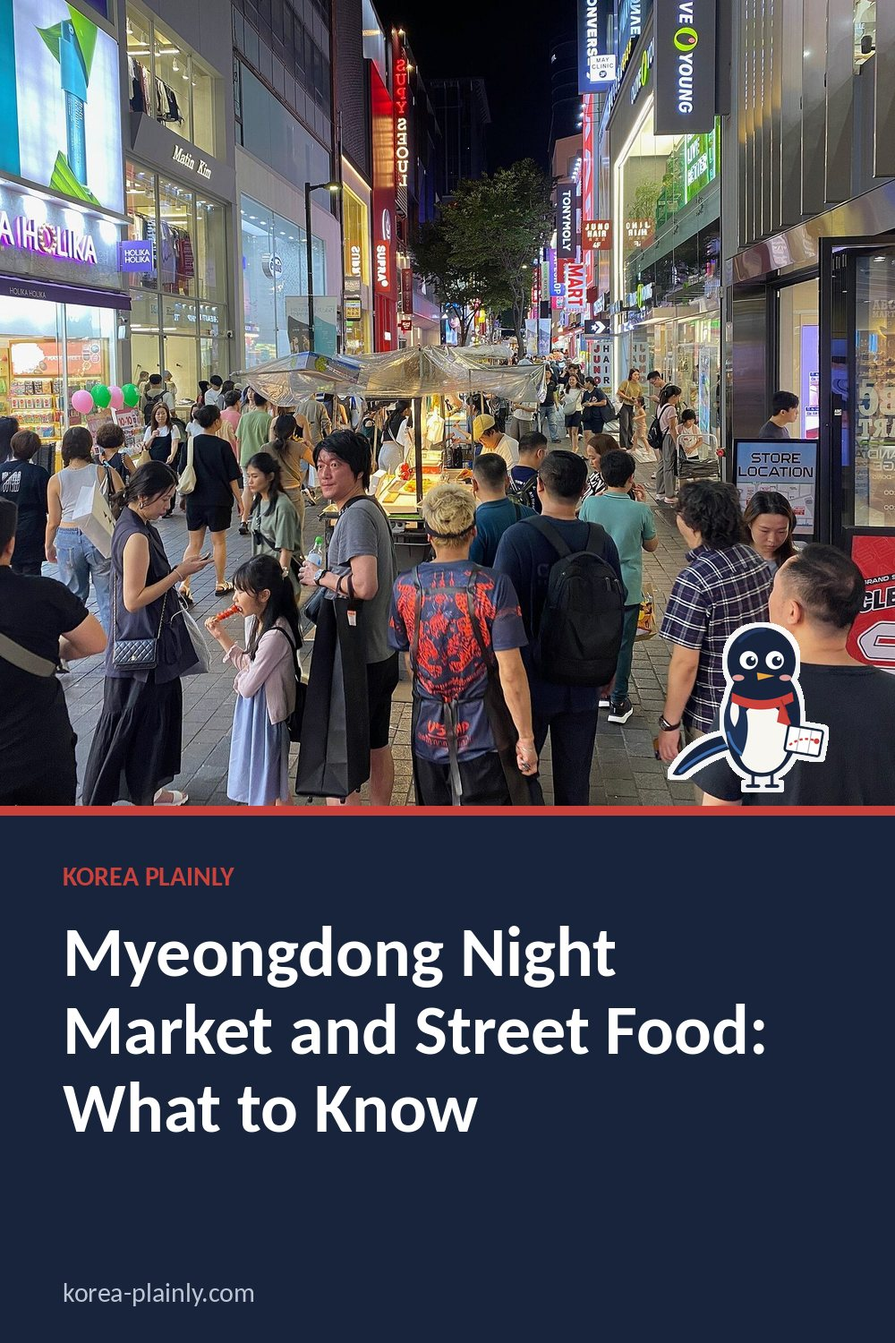
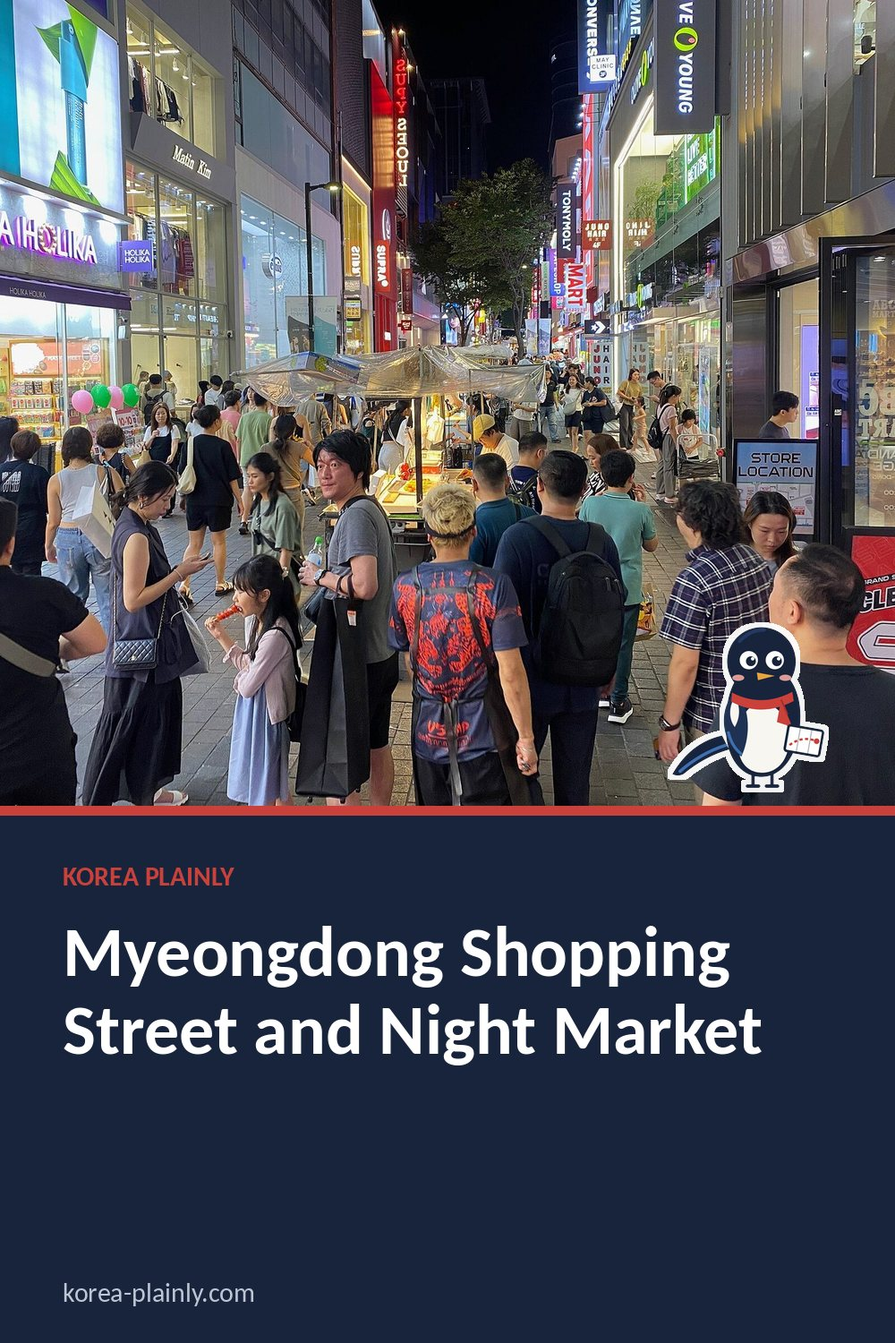
Myeongdong guide: retitle for 'Myeongdong shopping street', new shopping section (K-beauty, tax-free, exchange booths, department stores), specific bottom line, FAQ; halal fried chicken guide: fix romanisations, link halal food guide, retry cover photo; topics: add jjimjilbang (keyword gap) as next-
Claude-Session: https://claude.ai/code/session_01MMQnqJRo8hXZVj3LMVpuUp

Changed region(s): [[0.062, 0.6747, 0.868, 0.8587]]

diff --git a/myeongdong-night-market.html b/myeongdong-night-market.html
@@ -11,11 +11,11 @@
 >
 
 <link rel="stylesheet" href="style.css?v=20261015-1">
-<title>Myeongdong Night Market and Street Food: What to Know</title>
+<title>Myeongdong Shopping Street and Night Market: Street Food, K-Beauty and Tips</title>
 
 <meta
   name="description"
-  content="A practical guide to finding Myeongdong’s evening food stalls, choosing Korean street snacks, paying, and getting around."
+  content="Myeongdong shopping street and night market: where the food stalls are, what to eat, K-beauty shops, tax-free buying and paying."
 >
 <link
   rel="canonical"
@@ -29,12 +29,12 @@
 
 <meta
   property="og:title"
-  content="Myeongdong Night Market and Street Food: What to Know"
+  content="Myeongdong Shopping Street and Night Market: Street Food, K-Beauty and Tips"
 >
 
 <meta
   property="og:description"
-  content="A practical guide to finding Myeongdong’s evening food stalls, choosing Korean street snacks, paying, and getting around."
+  content="Myeongdong shopping street and night market: where the food stalls are, what to eat, K-beauty shops, tax-free buying and paying."
 >
 
 <meta
@@ -59,12 +59,12 @@
 
 <meta
   name="twitter:title"
-  content="Myeongdong Night Market and Street Food: What to Know"
+  content="Myeongdong Shopping Street and Night Market: Street Food, K-Beauty and Tips"
 >
 
 <meta
   name="twitter:description"
-  content="A practical guide to finding Myeongdong’s evening food stalls, choosing Korean street snacks, paying, and getting around."
+  content="Myeongdong shopping street and night market: where the food stalls are, what to eat, K-beauty shops, tax-free buying and paying."
 >
 
 <meta
@@ -244,12 +244,12 @@ footer {
 <script async src="https://www.googletagmanager.com/gtag/js?id=G-F508WWT8G9"></script><script>window.dataLayer=window.dataLayer||[];function gtag(){dataLayer.push(arguments);}gtag('js',new Date());gtag('config','G-F508WWT8G9');</script>
 <script async src="https://pagead2.googlesyndication.com/pagead/js/adsbygoogle.js?client=ca-pub-7379462117232471" crossorigin="anonymous"></script>
 <style>.kp-date{font-size:13px;color:#62635f;margin:-6px 0 22px}</style>
-<script type="application/ld+json" id="kp-faq-ld">{"@context": "https://schema.org", "@type": "FAQPage", "mainEntity": [{"@type": "Question", "name": "When is the best time to visit Myeongdong’s street-food stalls?", "acceptedAnswer": {"@type": "Answer", "text": "Myeongdong’s street-food stalls are generally associated with the evening, but activity and selection can vary by day, weather, and vendor. If you have a particular snack in mind, don’t rely on a precise schedule. Check the area when you arrive, and keep a nearby meal option in mind."}}, {"@type": "Question", "name": "Should I bring cash for street food?", "acceptedAnswer": {"@type": "Answer", "text": "Payment methods vary from stall to stall. Carry some Korean won in cash, and ask before ordering whether a vendor accepts your card or another payment method. Don’t assume every stall takes cards, and check the amount and payment method before your food is prepared."}}, {"@type": "Question", "name": "Can I find food that suits my dietary needs or allergies?", "acceptedAnswer": {"@type": "Answer", "text": "Options and ingredients vary, so ask the vendor about the food before ordering. If you have an allergy, explain it clearly and ask about ingredients and possible contact with other foods. A translated note can help, but if you’re unsure about an answer, choose something else."}}]}</script>
 <link rel="stylesheet" href="article.css?v=4">
 <link rel="stylesheet" href="https://fonts.googleapis.com/css2?family=DM+Sans:wght@400;500;600;700&family=Playfair+Display:ital,wght@0,600;1,600&display=swap">
 <link rel="icon" href="/favicon.svg" type="image/svg+xml">
-<script type="application/ld+json" id="kp-article-ld">{"@context": "https://schema.org", "@type": "Article", "headline": "Myeongdong Night Market and Street Food: What to Know", "description": "A practical guide to finding Myeongdong’s evening food stalls, choosing Korean street snacks, paying, and getting around.", "image": ["https://korea-plainly.com/photo-myeongdong-night-market.jpg"], "datePublished": "2026-10-23", "dateModified": "2026-10-23", "author": {"@type": "Person", "name": "Jungsuk Kim", "url": "https://korea-plainly.com/about.html#author"}, "publisher": {"@type": "Organization", "name": "Korea Plainly", "url": "https://korea-plainly.com/"}, "mainEntityOfPage": "https://korea-plainly.com/myeongdong-night-market.html"}</script>
-<script type="application/ld+json" id="kp-breadcrumb-ld">{"@context": "https://schema.org", "@type": "BreadcrumbList", "itemListElement": [{"@type": "ListItem", "position": 1, "name": "Home", "item": "https://korea-plainly.com/"}, {"@type": "ListItem", "position": 2, "name": "Guides", "item": "https://korea-plainly.com/guides.html"}, {"@type": "ListItem", "position": 3, "name": "Food & Dining", "item": "https://korea-plainly.com/guides.html?category=food"}, {"@type": "ListItem", "position": 4, "name": "Myeongdong Night Market and Street Food: What to Know", "item": "https://korea-plainly.com/myeongdong-night-market.html"}]}</script>
+<script type="application/ld+json" id="kp-faq-ld">{"@context": "https://schema.org", "@type": "FAQPage", "mainEntity": [{"@type": "Question", "name": "When is the best time to visit Myeongdong’s street-food stalls?", "acceptedAnswer": {"@type": "Answer", "text": "Myeongdong’s street-food stalls are generally associated with the evening, but activity and selection can vary by day, weather, and vendor. If you have a particular snack in mind, don’t rely on a precise schedule. Check the area when you arrive, and keep a nearby meal option in mind."}}, {"@type": "Question", "name": "Should I bring cash for street food?", "acceptedAnswer": {"@type": "Answer", "text": "Payment methods vary from stall to stall. Carry some Korean won in cash, and ask before ordering whether a vendor accepts your card or another payment method. Don’t assume every stall takes cards, and check the amount and payment method before your food is prepared."}}, {"@type": "Question", "name": "Is Myeongdong shopping street worth visiting if I only want K-beauty?", "acceptedAnswer": {"@type": "Answer", "text": "Yes. It has one of the densest mixes of Korean skincare brand shops and multi-brand stores in Seoul, all within a short walk, and many shops offer tax-free prices to visitors with a passport. Compare offers between shops, as the same product can be discounted in one and full price in another."}}, {"@type": "Question", "name": "Can I find food that suits my dietary needs or allergies?", "acceptedAnswer": {"@type": "Answer", "text": "Options and ingredients vary, so ask the vendor about the food before ordering. If you have an allergy, explain it clearly and ask about ingredients and possible contact with other foods. A translated note can help, but if you’re unsure about an answer, choose something else."}}]}</script>
+<script type="application/ld+json" id="kp-article-ld">{"@context": "https://schema.org", "@type": "Article", "headline": "Myeongdong Shopping Street and Night Market: Street Food, K-Beauty and Tips", "description": "Myeongdong shopping street and night market: where the food stalls are, what to eat, K-beauty shops, tax-free buying and paying.", "image": ["https://korea-plainly.com/photo-myeongdong-night-market.jpg"], "datePublished": "2026-10-23", "dateModified": "2026-11-15", "author": {"@type": "Person", "name": "Jungsuk Kim", "url": "https://korea-plainly.com/about.html#author"}, "publisher": {"@type": "Organization", "name": "Korea Plainly", "url": "https://korea-plainly.com/"}, "mainEntityOfPage": "https://korea-plainly.com/myeongdong-night-market.html"}</script>
+<script type="application/ld+json" id="kp-breadcrumb-ld">{"@context": "https://schema.org", "@type": "BreadcrumbList", "itemListElement": [{"@type": "ListItem", "position": 1, "name": "Home", "item": "https://korea-plainly.com/"}, {"@type": "ListItem", "position": 2, "name": "Guides", "item": "https://korea-plainly.com/guides.html"}, {"@type": "ListItem", "position": 3, "name": "Food & Dining", "item": "https://korea-plainly.com/guides.html?category=food"}, {"@type": "ListItem", "position": 4, "name": "Myeongdong Shopping Street and Night Market: Street Food, K-Beauty and Tips", "item": "https://korea-plainly.com/myeongdong-night-market.html"}]}</script>
 <meta property="article:published_time" content="2026-10-23">
 </head>
 
@@ -280,12 +280,12 @@ FOOD · KOREA GUIDE
 </div>
 
 <h1>
-Myeongdong Night Market and Street Food: What to Know
+Myeongdong Shopping Street and Night Market: Street Food, K-Beauty and Tips
 </h1>
-<p class="kp-date" data-kp="date">By <a href="about.html#author">Jungsuk Kim</a>, Korea Plainly · Published <time datetime="2026-10-23">23 October 2026</time></p>
+<p class="kp-date" data-kp="date">By <a href="about.html#author">Jungsuk Kim</a>, Korea Plainly · Published <time datetime="2026-10-23">23 October 2026</time> · Updated <time datetime="2026-11-15">15 November 2026</time></p>
 
 <p class="dek">
-A practical guide to finding Myeongdong’s evening food stalls, choosing Korean street snacks, paying, and getting around.
+Myeongdong shopping street and night market: where the food stalls are, what to eat, K-beauty shops, tax-free buying and paying.
 </p>
 
 <img
@@ -297,12 +297,22 @@ A practical guide to finding Myeongdong’s evening food stalls, choosing Korean
 
 <article>
 
-<p>Myeongdong is one of Seoul’s easiest places to try several Korean street foods in one evening. As the shopping streets fill with people, mobile stalls set up along the pedestrian lanes and serve snacks such as tteokbokki, hotteok and grilled seafood. It is lively, central and convenient—but it is not a single, officially managed market with one entrance or fixed menu. Stall locations, choices and prices can change.</p>
+<p>Myeongdong is one of Seoul’s easiest places to try several Korean street foods in one evening. As the shopping streets fill with people, mobile stalls set up along the pedestrian lanes and serve snacks such as tteokbokki, hotteok and grilled seafood. By day the same lanes are Seoul’s best-known shopping street for K-beauty, so one visit can cover both. It is lively, central and convenient—but the night market is not a single, officially managed market with one entrance or fixed menu. Stall locations, choices and prices can change.</p>
 
-<nav class="kp-toc" data-kp="toc" aria-label="On this page"><p>On this page</p><ol><li><a href="#where-the-night-market-is">Where the night market is</a></li><li><a href="#what-to-eat-first">What to eat first</a></li><li><a href="#prices-and-paying">Prices and paying</a></li><li><a href="#how-to-order-and-eat-comfortably">How to order and eat comfortably</a></li><li><a href="#timing-weather-and-what-to-bring">Timing, weather and what to bring</a></li><li><a href="#make-it-part-of-a-seoul-evening">Make it part of a Seoul evening</a></li><li><a href="#frequently-asked-questions">Frequently Asked Questions</a></li></ol></nav>
+<nav class="kp-toc" data-kp="toc" aria-label="On this page"><p>On this page</p><ol><li><a href="#where-the-night-market-is">Where the night market is</a></li><li><a href="#shopping-on-myeongdong-street">Shopping on Myeongdong’s main street</a></li><li><a href="#what-to-eat-first">What to eat first</a></li><li><a href="#prices-and-paying">Prices and paying</a></li><li><a href="#how-to-order-and-eat-comfortably">How to order and eat comfortably</a></li><li><a href="#timing-weather-and-what-to-bring">Timing, weather and what to bring</a></li><li><a href="#make-it-part-of-a-seoul-evening">Make it part of a Seoul evening</a></li><li><a href="#frequently-asked-questions">Frequently Asked Questions</a></li></ol></nav>
 <h2 id="where-the-night-market-is">Where the night market is</h2>
 <p>Look around the main shopping streets between Myeongdong Station and Myeongdong Cathedral, including the busy lanes near the large cosmetics shops. The stalls are outdoors, so the experience depends on the weather and the season. They usually become part of the evening scene rather than operating like a daytime food hall. If you arrive and see few carts, walk the nearby shopping lanes before deciding the market is quiet.</p>
 <p>For the simplest route, take Seoul Subway Line 4 to Myeongdong Station and head out around Exit 6 toward the shopping streets. Line 2’s Euljiro 1-ga Station is another option; from there, walk toward Myeongdong’s central shopping area. The streets are crowded at busy times, so allow extra time if you are meeting someone. Naver Map and KakaoMap are useful for walking directions; search “Myeongdong Street” or “Myeongdong Cathedral” rather than expecting a single night-market pin.</p>
+
+<h2 id="shopping-on-myeongdong-street">Shopping on Myeongdong’s main street</h2>
+<p>Myeongdong’s shopping street is really a small grid of pedestrian lanes rather than one road. Most shops sell skincare and make-up: Korean brand stores, large multi-brand shops such as <a href="olive-young-korea-guide.html">Olive Young</a>, and smaller cosmetics sellers. Clothing chains, sock and souvenir stalls, and character goods fill the gaps. Shops usually open from late morning and stay open into the evening, so you can shop first and eat when the stalls set up.</p>
+<ul>
+<li><strong>Compare before you buy.</strong> The same sheet mask or sunscreen can be on a “1+1” (buy one, get one free) offer in one shop and full price next door. Staff at the door often hand out free samples; you do not have to go in.</li>
+<li><strong>Bring your passport for tax-free shopping.</strong> Shops showing a “Tax Free” or “Tax Refund” sign can take the tax off when you spend at least ₩15,000 in one transaction. Many deduct it at the till for purchases under ₩1 million each, up to ₩5 million per trip (2026 rules). Our <a href="korea-tax-refund-guide.html">tax refund guide</a> explains the rest.</li>
+<li><strong>Change money here if you need cash.</strong> The licensed exchange booths in Myeongdong usually offer good rates for major currencies. Compare the boards outside a few booths and count your won before leaving; see <a href="korea-money-exchange.html">money exchange in Korea</a>.</li>
+<li><strong>Use the department stores at either end.</strong> Lotte Department Store’s main branch (near Euljiro 1-ga Station) and Shinsegae’s main store (near Hoehyeon Station) both have duty-free floors, clean restrooms and basement food halls for a sit-down break.</li>
+</ul>
+<p>Weekend afternoons are the most crowded. If you want a calmer look round, go on a weekday morning, then come back after dark for snacks. For other areas such as Hongdae, Gangnam and Dongdaemun, see <a href="seoul-shopping-districts.html">Seoul shopping districts</a>.</p>
 
 <h2 id="what-to-eat-first">What to eat first</h2>
 <p>Start with a few familiar favourites, then choose something that looks good at the stall. Tteokbokki (떡볶이) is chewy rice cake in a spicy, sweet-red sauce. Odeng, also called eomuk (오뎅 or 어묵), is fish cake served on a skewer, often with warm broth. Hotteok (호떡) is a griddled pancake with a sweet filling, while gyeranppang (계란빵) is a small egg bread that is easy to eat while walking.</p>
@@ -329,10 +339,7 @@ A practical guide to finding Myeongdong’s evening food stalls, choosing Korean
 Bottom line:
 </strong>
 
-A little preparation can make your
-time in Korea much easier.
-Keep this guide handy and enjoy
-exploring at your own pace.
+Shop Myeongdong’s main street in the afternoon with your passport for tax-free buys, then stay after dark for two or three small snacks, with a little cash for the stalls.
 
 </div>
 
@@ -343,6 +350,8 @@ exploring at your own pace.
 <p>Myeongdong’s street-food stalls are generally associated with the evening, but activity and selection can vary by day, weather, and vendor. If you have a particular snack in mind, don’t rely on a precise schedule. Check the area when you arrive, and keep a nearby meal option in mind.</p>
 <h3>Should I bring cash for street food?</h3>
 <p>Payment methods vary from stall to stall. Carry some Korean won in cash, and ask before ordering whether a vendor accepts your card or another payment method. Don’t assume every stall takes cards, and check the amount and payment method before your food is prepared.</p>
+<h3>Is Myeongdong shopping street worth visiting if I only want K-beauty?</h3>
+<p>Yes. It has one of the densest mixes of Korean skincare brand shops and multi-brand stores in Seoul, all within a short walk, and many shops offer tax-free prices to visitors with a passport. Compare offers between shops, as the same product can be discounted in one and full price in another.</p>
 <h3>Can I find food that suits my dietary needs or allergies?</h3>
 <p>Options and ingredients vary, so ask the vendor about the food before ordering. If you have an allergy, explain it clearly and ask about ingredients and possible contact with other foods. A translated note can help, but if you’re unsure about an answer, choose something else.</p>
 </section>

diff --git a/halal-korean-fried-chicken.html b/halal-korean-fried-chicken.html
@@ -245,12 +245,12 @@ footer {
 <script async src="https://pagead2.googlesyndication.com/pagead/js/adsbygoogle.js?client=ca-pub-7379462117232471" crossorigin="anonymous"></script>
 <style>.kp-date{font-size:13px;color:#62635f;margin:-6px 0 22px}</style>
 <script type="application/ld+json" id="kp-faq-ld">{"@context": "https://schema.org", "@type": "FAQPage", "mainEntity": [{"@type": "Question", "name": "How can I tell whether a Korean fried chicken restaurant is halal?", "acceptedAnswer": {"@type": "Answer", "text": "Do not assume that fried chicken is halal just because it contains chicken. Look for a halal certificate, and ask staff whether the chicken and ingredients in the batter, marinade, and sauce are halal. If they cannot confirm, or their answer is unclear, choose another option."}}, {"@type": "Question", "name": "Is the chicken halal if the restaurant also serves pork or alcohol?", "acceptedAnswer": {"@type": "Answer", "text": "Serving pork or alcohol does not by itself tell you how the chicken is sourced or prepared. Ask whether the chicken is halal-certified and whether it is stored and cooked separately from pork and other non-halal items. If you need strict separation, choose a place that can clearly confirm it."}}, {"@type": "Question", "name": "What should I ask before ordering Korean fried chicken?", "acceptedAnswer": {"@type": "Answer", "text": "Ask whether the chicken is halal, what is in the batter and sauce, and whether it shares a fryer or cooking equipment with non-halal food. Plain or unsauced chicken is not automatically halal. If it is difficult to explain your needs, show staff a short written question in Korean."}}]}</script>
-<script type="application/ld+json" id="kp-article-ld">{"@context": "https://schema.org", "@type": "Article", "headline": "Halal Korean Fried Chicken: What Visitors Should Know", "description": "How to find Korean-style fried chicken that meets your halal needs, what to ask about ingredients and fryers, and where to start in Seoul.", "image": ["https://korea-plainly.com/food.jpg"], "datePublished": "2026-11-15", "dateModified": "2026-11-15", "author": {"@type": "Person", "name": "Jungsuk Kim", "url": "https://korea-plainly.com/about.html#author"}, "publisher": {"@type": "Organization", "name": "Korea Plainly", "url": "https://korea-plainly.com/"}, "mainEntityOfPage": "https://korea-plainly.com/halal-korean-fried-chicken.html"}</script>
-<script type="application/ld+json" id="kp-breadcrumb-ld">{"@context": "https://schema.org", "@type": "BreadcrumbList", "itemListElement": [{"@type": "ListItem", "position": 1, "name": "Home", "item": "https://korea-plainly.com/"}, {"@type": "ListItem", "position": 2, "name": "Guides", "item": "https://korea-plainly.com/guides.html"}, {"@type": "ListItem", "position": 3, "name": "Food & Dining", "item": "https://korea-plainly.com/guides.html?category=food"}, {"@type": "ListItem", "position": 4, "name": "Halal Korean Fried Chicken: What Visitors Should Know", "item": "https://korea-plainly.com/halal-korean-fried-chicken.html"}]}</script>
-<meta property="article:published_time" content="2026-11-15">
 <link rel="stylesheet" href="article.css?v=4">
 <link rel="stylesheet" href="https://fonts.googleapis.com/css2?family=DM+Sans:wght@400;500;600;700&family=Playfair+Display:ital,wght@0,600;1,600&display=swap">
 <link rel="icon" href="/favicon.svg" type="image/svg+xml">
+<script type="application/ld+json" id="kp-article-ld">{"@context": "https://schema.org", "@type": "Article", "headline": "Halal Korean Fried Chicken: What Visitors Should Know", "description": "How to find Korean-style fried chicken that meets your halal needs, what to ask about ingredients and fryers, and where to start in Seoul.", "image": ["https://korea-plainly.com/food.jpg"], "datePublished": "2026-11-15", "dateModified": "2026-11-15", "author": {"@type": "Person", "name": "Jungsuk Kim", "url": "https://korea-plainly.com/about.html#author"}, "publisher": {"@type": "Organization", "name": "Korea Plainly", "url": "https://korea-plainly.com/"}, "mainEntityOfPage": "https://korea-plainly.com/halal-korean-fried-chicken.html"}</script>
+<script type="application/ld+json" id="kp-breadcrumb-ld">{"@context": "https://schema.org", "@type": "BreadcrumbList", "itemListElement": [{"@type": "ListItem", "position": 1, "name": "Home", "item": "https://korea-plainly.com/"}, {"@type": "ListItem", "position": 2, "name": "Guides", "item": "https://korea-plainly.com/guides.html"}, {"@type": "ListItem", "position": 3, "name": "Food & Dining", "item": "https://korea-plainly.com/guides.html?category=food"}, {"@type": "ListItem", "position": 4, "name": "Halal Korean Fried Chicken: What Visitors Should Know", "item": "https://korea-plainly.com/halal-korean-fried-chicken.html"}]}</script>
+<meta property="article:published_time" content="2026-11-15">
 </head>
 
 <body class="kp-article">
@@ -297,7 +297,7 @@ How to find Korean-style fried chicken that meets your halal needs, what to ask 
 <article>
 
 <p>Korean fried chicken is crisp, often covered in a sweet, spicy or soy-based sauce, and commonly eaten with pickled radish. But a chicken dish is not automatically halal: the meat, cooking oil, sauce and kitchen practices all matter. In Korea, many familiar chicken franchises do not make a clear halal claim, so check before ordering rather than relying on the word “chicken.”</p><nav class="kp-toc" data-kp="toc" aria-label="On this page"><p>On this page</p><ol><li><a href="#start-with-a-halal-focused-restaurant">Start with a halal-focused restaurant</a></li><li><a href="#know-what-to-ask-about">Know what to ask about</a></li><li><a href="#useful-korean-words-for-ordering">Useful Korean words for ordering</a></li><li><a href="#be-careful-with-familiar-chicken-chains">Be careful with familiar chicken chains</a></li><li><a href="#ordering-delivery-or-finding-a-nearby-option">Ordering delivery or finding a nearby option</a></li><li><a href="#a-simple-plan-for-your-meal">A simple plan for your meal</a></li><li><a href="#frequently-asked-questions">Frequently Asked Questions</a></li></ol></nav>
-<h2 id="start-with-a-halal-focused-restaurant">Start with a halal-focused restaurant</h2><p>In Seoul, Itaewon is the easiest place to begin. Seoul Central Mosque is in the Hannam-dong area, uphill from Itaewon Station on Subway Line 6, and the nearby streets have restaurants serving Muslim visitors. EID Halal Korean Food and Makan Halal Korean Restaurant are known as halal-focused Korean dining options in this area. Ask whether Korean-style fried chicken is currently on the menu; a restaurant’s menu can change, and not every halal Korean restaurant serves this particular dish.</p><p>The Korea Tourism Organization’s official Visit Korea website has a Muslim-friendly restaurant listing. It uses categories that can distinguish halal-certified places from restaurants with other Muslim-friendly features. Read the category carefully: “Muslim-friendly” does not necessarily mean every dish, ingredient or kitchen practice has been certified halal.</p><h2 id="know-what-to-ask-about">Know what to ask about</h2><p>Halal suitability depends on more than the chicken. Ask whether the chicken is halal-certified, whether it is fried in oil shared with pork or other non-halal foods, and whether the sauce contains alcohol or non-halal ingredients. Some Korean sauces and marinades may use cooking wine or other ingredients that matter to observant diners. A plain-looking dish is not proof that it meets your requirements.</p><p>If certification is important to you, ask which organisation certified the restaurant or its chicken supplier, and whether that certification applies to the branch you are visiting. A sign, online listing or staff member’s assurance can be useful, but the level of assurance you need is a personal choice. If you are unsure, choose a restaurant that can answer your questions clearly.</p><h2 id="useful-korean-words-for-ordering">Useful Korean words for ordering</h2><p>Showing a short question on your phone can help, especially in a busy chicken restaurant. These phrases make the main concerns clear:</p><ul><li><strong>이 치킨은 할랄인가요?</strong> (I chikin-eun hallal-ingayo?) — Is this chicken halal?</li><li><strong>닭고기가 할랄 인증을 받았나요?</strong> (Dakgogiga hallal jeungm-eul badannayo?) — Is the chicken halal-certified?</li><li><strong>돼지고기와 같은 기름에 튀기나요?</strong> (Dwaejigogiwa gateun gireume twig-inayo?) — Is it fried in the same oil as pork?</li><li><strong>소스에 술이나 알코올이 들어가나요?</strong> (Soseue surina alkolli-ga deureoganayo?) — Does the sauce contain alcohol?</li></ul><p>For a simple order, <strong>후라이드 치킨</strong> (huraideu chikin) means plain fried chicken, while <strong>양념치킨</strong> (yangnyeom chikin) is coated in a sweet and spicy sauce. <strong>간장치킨</strong> (ganjang chikin) is soy-sauce style. These names describe flavour, not halal status. Ask about the exact sauce and preparation for each dish.</p><h2 id="be-careful-with-familiar-chicken-chains">Be careful with familiar chicken chains</h2><p>BBQ, BHC and Kyochon are widely recognised Korean chicken brands, with branches in districts such as Hongdae, Myeongdong and Gangnam. Their popularity does not mean a particular branch or menu item is halal. Do not assume the chicken is acceptable because a menu has no pork dish, or because you order plain fried chicken. Meat sourcing and shared fryers still need to be checked.</p><p>Korean chicken shops often promote <strong>치맥</strong> (chimaek), a combination of chicken and beer. Beer is not part of a halal meal, and the social setting may include alcohol even when you order soft drinks. You can simply ask for <strong>콜라</strong> (kolla, cola) or <strong>사이다</strong> (saida, a lemon-lime soda). You do not need to join the drinking custom to enjoy the food.</p><h2 id="ordering-delivery-or-finding-a-nearby-option">Ordering delivery or finding a nearby option</h2><p>Delivery apps can be awkward for visitors because menus and chat support may be mostly in Korean. Search for <strong>할랄 치킨</strong> (halal chicken) or <strong>할랄 한국 음식</strong> (halal Korean food), but treat search results as leads, not proof. A label in a listing may refer to a restaurant rather than every dish. Calling or messaging the restaurant to ask about the chicken, oil and sauce is safer than ordering from a photo alone.</p><p>For restaurants near Itaewon Station, use Naver Map or KakaoMap and search the restaurant’s name in Korean as well as English; English spellings can vary. Check current details on Naver Map or the official site, since location pins, menus and business status can change. If you are outside Itaewon, search the Visit Korea Muslim-friendly listing for your district, then contact the restaurant before travelling there for a specific chicken dish.</p><h2 id="a-simple-plan-for-your-meal">A simple plan for your meal</h2><p>Choose a halal-focused restaurant first, and confirm that it serves fried chicken that day. Ask about certified meat, shared frying oil and the sauce. If the answers are unclear, order a different dish only if the restaurant can explain its ingredients to your satisfaction, or pick another listed restaurant. This is more reliable than trying to make a last-minute choice at a busy franchise counter.</p>
+<h2 id="start-with-a-halal-focused-restaurant">Start with a halal-focused restaurant</h2><p>In Seoul, Itaewon is the easiest place to begin. Seoul Central Mosque is in the Hannam-dong area, uphill from Itaewon Station on Subway Line 6, and the nearby streets have restaurants serving Muslim visitors. EID Halal Korean Food and Makan Halal Korean Restaurant are known as halal-focused Korean dining options in this area. Ask whether Korean-style fried chicken is currently on the menu; a restaurant’s menu can change, and not every halal Korean restaurant serves this particular dish.</p><p>The Korea Tourism Organization’s official Visit Korea website has a Muslim-friendly restaurant listing. It uses categories that can distinguish halal-certified places from restaurants with other Muslim-friendly features. Read the category carefully: “Muslim-friendly” does not necessarily mean every dish, ingredient or kitchen practice has been certified halal. For halal Korean BBQ and other meals beyond chicken, see our guide to <a href="vegetarian-food-korea.html">vegetarian, vegan and halal food in Korea</a>.</p><h2 id="know-what-to-ask-about">Know what to ask about</h2><p>Halal suitability depends on more than the chicken. Ask whether the chicken is halal-certified, whether it is fried in oil shared with pork or other non-halal foods, and whether the sauce contains alcohol or non-halal ingredients. Some Korean sauces and marinades may use cooking wine or other ingredients that matter to observant diners. A plain-looking dish is not proof that it meets your requirements.</p><p>If certification is important to you, ask which organisation certified the restaurant or its chicken supplier, and whether that certification applies to the branch you are visiting. A sign, online listing or staff member’s assurance can be useful, but the level of assurance you need is a personal choice. If you are unsure, choose a restaurant that can answer your questions clearly.</p><h2 id="useful-korean-words-for-ordering">Useful Korean words for ordering</h2><p>Showing a short question on your phone can help, especially in a busy chicken restaurant. These phrases make the main concerns clear:</p><ul><li><strong>이 치킨은 할랄인가요?</strong> (I chikin-eun hallal-ingayo?) — Is this chicken halal?</li><li><strong>닭고기가 할랄 인증을 받았나요?</strong> (Dakgogiga hallal injeung-eul badanayo?) — Is the chicken halal-certified?</li><li><strong>돼지고기와 같은 기름에 튀기나요?</strong> (Dwaejigogiwa gateun gireume twiginayo?) — Is it fried in the same oil as pork?</li><li><strong>소스에 술이나 알코올이 들어가나요?</strong> (Soseue surina alkori-ga deureoganayo?) — Does the sauce contain alcohol?</li></ul><p>For a simple order, <strong>후라이드 치킨</strong> (huraideu chikin) means plain fried chicken, while <strong>양념치킨</strong> (yangnyeom chikin) is coated in a sweet and spicy sauce. <strong>간장치킨</strong> (ganjang chikin) is soy-sauce style. These names describe flavour, not halal status. Ask about the exact sauce and preparation for each dish.</p><h2 id="be-careful-with-familiar-chicken-chains">Be careful with familiar chicken chains</h2><p>BBQ, BHC and Kyochon are widely recognised Korean chicken brands, with branches in districts such as Hongdae, Myeongdong and Gangnam. Their popularity does not mean a particular branch or menu item is halal. Do not assume the chicken is acceptable because a menu has no pork dish, or because you order plain fried chicken. Meat sourcing and shared fryers still need to be checked.</p><p>Korean chicken shops often promote <strong>치맥</strong> (chimaek), a combination of chicken and beer. Beer is not part of a halal meal, and the social setting may include alcohol even when you order soft drinks. You can simply ask for <strong>콜라</strong> (kolla, cola) or <strong>사이다</strong> (saida, a lemon-lime soda). You do not need to join the drinking custom to enjoy the food.</p><h2 id="ordering-delivery-or-finding-a-nearby-option">Ordering delivery or finding a nearby option</h2><p>Delivery apps can be awkward for visitors because menus and chat support may be mostly in Korean. Search for <strong>할랄 치킨</strong> (halal chicken) or <strong>할랄 한국 음식</strong> (halal Korean food), but treat search results as leads, not proof. A label in a listing may refer to a restaurant rather than every dish. Calling or messaging the restaurant to ask about the chicken, oil and sauce is safer than ordering from a photo alone.</p><p>For restaurants near Itaewon Station, use Naver Map or KakaoMap and search the restaurant’s name in Korean as well as English; English spellings can vary. Check current details on Naver Map or the official site, since location pins, menus and business status can change. If you are outside Itaewon, search the Visit Korea Muslim-friendly listing for your district, then contact the restaurant before travelling there for a specific chicken dish.</p><h2 id="a-simple-plan-for-your-meal">A simple plan for your meal</h2><p>Choose a halal-focused restaurant first, and confirm that it serves fried chicken that day. Ask about certified meat, shared frying oil and the sauce. If the answers are unclear, order a different dish only if the restaurant can explain its ingredients to your satisfaction, or pick another listed restaurant. This is more reliable than trying to make a last-minute choice at a busy franchise counter.</p>
 
 <div class="tip">
 

diff --git a/korea-festivals.html b/korea-festivals.html
@@ -248,7 +248,7 @@ footer {
 <link rel="stylesheet" href="https://fonts.googleapis.com/css2?family=DM+Sans:wght@400;500;600;700&family=Playfair+Display:ital,wght@0,600;1,600&display=swap">
 <link rel="icon" href="/favicon.svg" type="image/svg+xml">
 <script type="application/ld+json" id="kp-faq-ld">{"@context": "https://schema.org", "@type": "FAQPage", "mainEntity": [{"@type": "Question", "name": "Where does this festival list come from?", "acceptedAnswer": {"@type": "Answer", "text": "From the Korea Tourism Organization's official tourism data, which we check every week. Always confirm dates on the festival's own page before you travel."}}, {"@type": "Question", "name": "When is the best time for festivals in Korea?", "acceptedAnswer": {"@type": "Answer", "text": "Autumn has the most festivals, followed by spring. Winter is the season for lights, ice fishing and snow festivals."}}, {"@type": "Question", "name": "Are Korean festivals free?", "acceptedAnswer": {"@type": "Answer", "text": "Many are free to enter, especially street, lantern and food festivals. Some activities, such as ice fishing or paid seats at fireworks shows, cost extra."}}]}</script>
-<script type="application/ld+json" id="kp-article-ld">{"@context": "https://schema.org", "@type": "Article", "headline": "Festivals in Korea: What's On This Month and Coming Up", "description": "A festival calendar for Korea, updated every week: what is on now and coming up across the country, from food and lantern festivals to fireworks, flowers and ice fishing.", "image": ["https://korea-plainly.com/photo-korea-festivals.jpg"], "datePublished": "2026-10-15", "dateModified": "2026-11-11", "author": {"@type": "Person", "name": "Jungsuk Kim", "url": "https://korea-plainly.com/about.html#author"}, "publisher": {"@type": "Organization", "name": "Korea Plainly", "url": "https://korea-plainly.com/"}, "mainEntityOfPage": "https://korea-plainly.com/korea-festivals.html"}</script>
+<script type="application/ld+json" id="kp-article-ld">{"@context": "https://schema.org", "@type": "Article", "headline": "Festivals in Korea: What's On This Month and Coming Up", "description": "A festival calendar for Korea, updated every week: what is on now and coming up across the country, from food and lantern festivals to fireworks, flowers and ice fishing.", "image": ["https://korea-plainly.com/photo-korea-festivals.jpg"], "datePublished": "2026-10-15", "dateModified": "2026-11-15", "author": {"@type": "Person", "name": "Jungsuk Kim", "url": "https://korea-plainly.com/about.html#author"}, "publisher": {"@type": "Organization", "name": "Korea Plainly", "url": "https://korea-plainly.com/"}, "mainEntityOfPage": "https://korea-plainly.com/korea-festivals.html"}</script>
 <script type="application/ld+json" id="kp-breadcrumb-ld">{"@context": "https://schema.org", "@type": "BreadcrumbList", "itemListElement": [{"@type": "ListItem", "position": 1, "name": "Home", "item": "https://korea-plainly.com/"}, {"@type": "ListItem", "position": 2, "name": "Guides", "item": "https://korea-plainly.com/guides.html"}, {"@type": "ListItem", "position": 3, "name": "Travel Basics", "item": "https://korea-plainly.com/guides.html?category=travel"}, {"@type": "ListItem", "position": 4, "name": "Festivals in Korea: What's On This Month and Coming Up", "item": "https://korea-plainly.com/korea-festivals.html"}]}</script>
 <meta property="article:published_time" content="2026-10-15">
 </head>
@@ -282,7 +282,7 @@ TRAVEL BASICS · WHAT'S ON
 <h1>
 Festivals in Korea: What's On This Month and Coming Up
 </h1>
-<p class="kp-date" data-kp="date">By <a href="about.html#author">Jungsuk Kim</a>, Korea Plainly · Published <time datetime="2026-10-15">15 October 2026</time> · Updated <time datetime="2026-11-11">11 November 2026</time></p>
+<p class="kp-date" data-kp="date">By <a href="about.html#author">Jungsuk Kim</a>, Korea Plainly · Published <time datetime="2026-10-15">15 October 2026</time> · Updated <time datetime="2026-11-15">15 November 2026</time></p>
 
 <p class="dek">
 A festival calendar for Korea, updated every week: what is on now and coming up across the country, from food and lantern festivals to fireworks, flowers and ice fishing.

diff --git a/guides.html b/guides.html
@@ -2672,11 +2672,11 @@ FOOD · NEW
 </small>
 
 <h2>
-Myeongdong Night Market and Street Food: What to Know
+Myeongdong Shopping Street and Night Market: Street Food, K-Beauty and Tips
 </h2>
 
 <p>
-A practical guide to finding Myeongdong’s evening food stalls, choosing Korean street snacks, paying, and getting around.
+Myeongdong shopping street and night market: where the food stalls are, what to eat, K-beauty shops, tax-free buying and paying.
 </p>
 
 <span class="guide-arrow">
